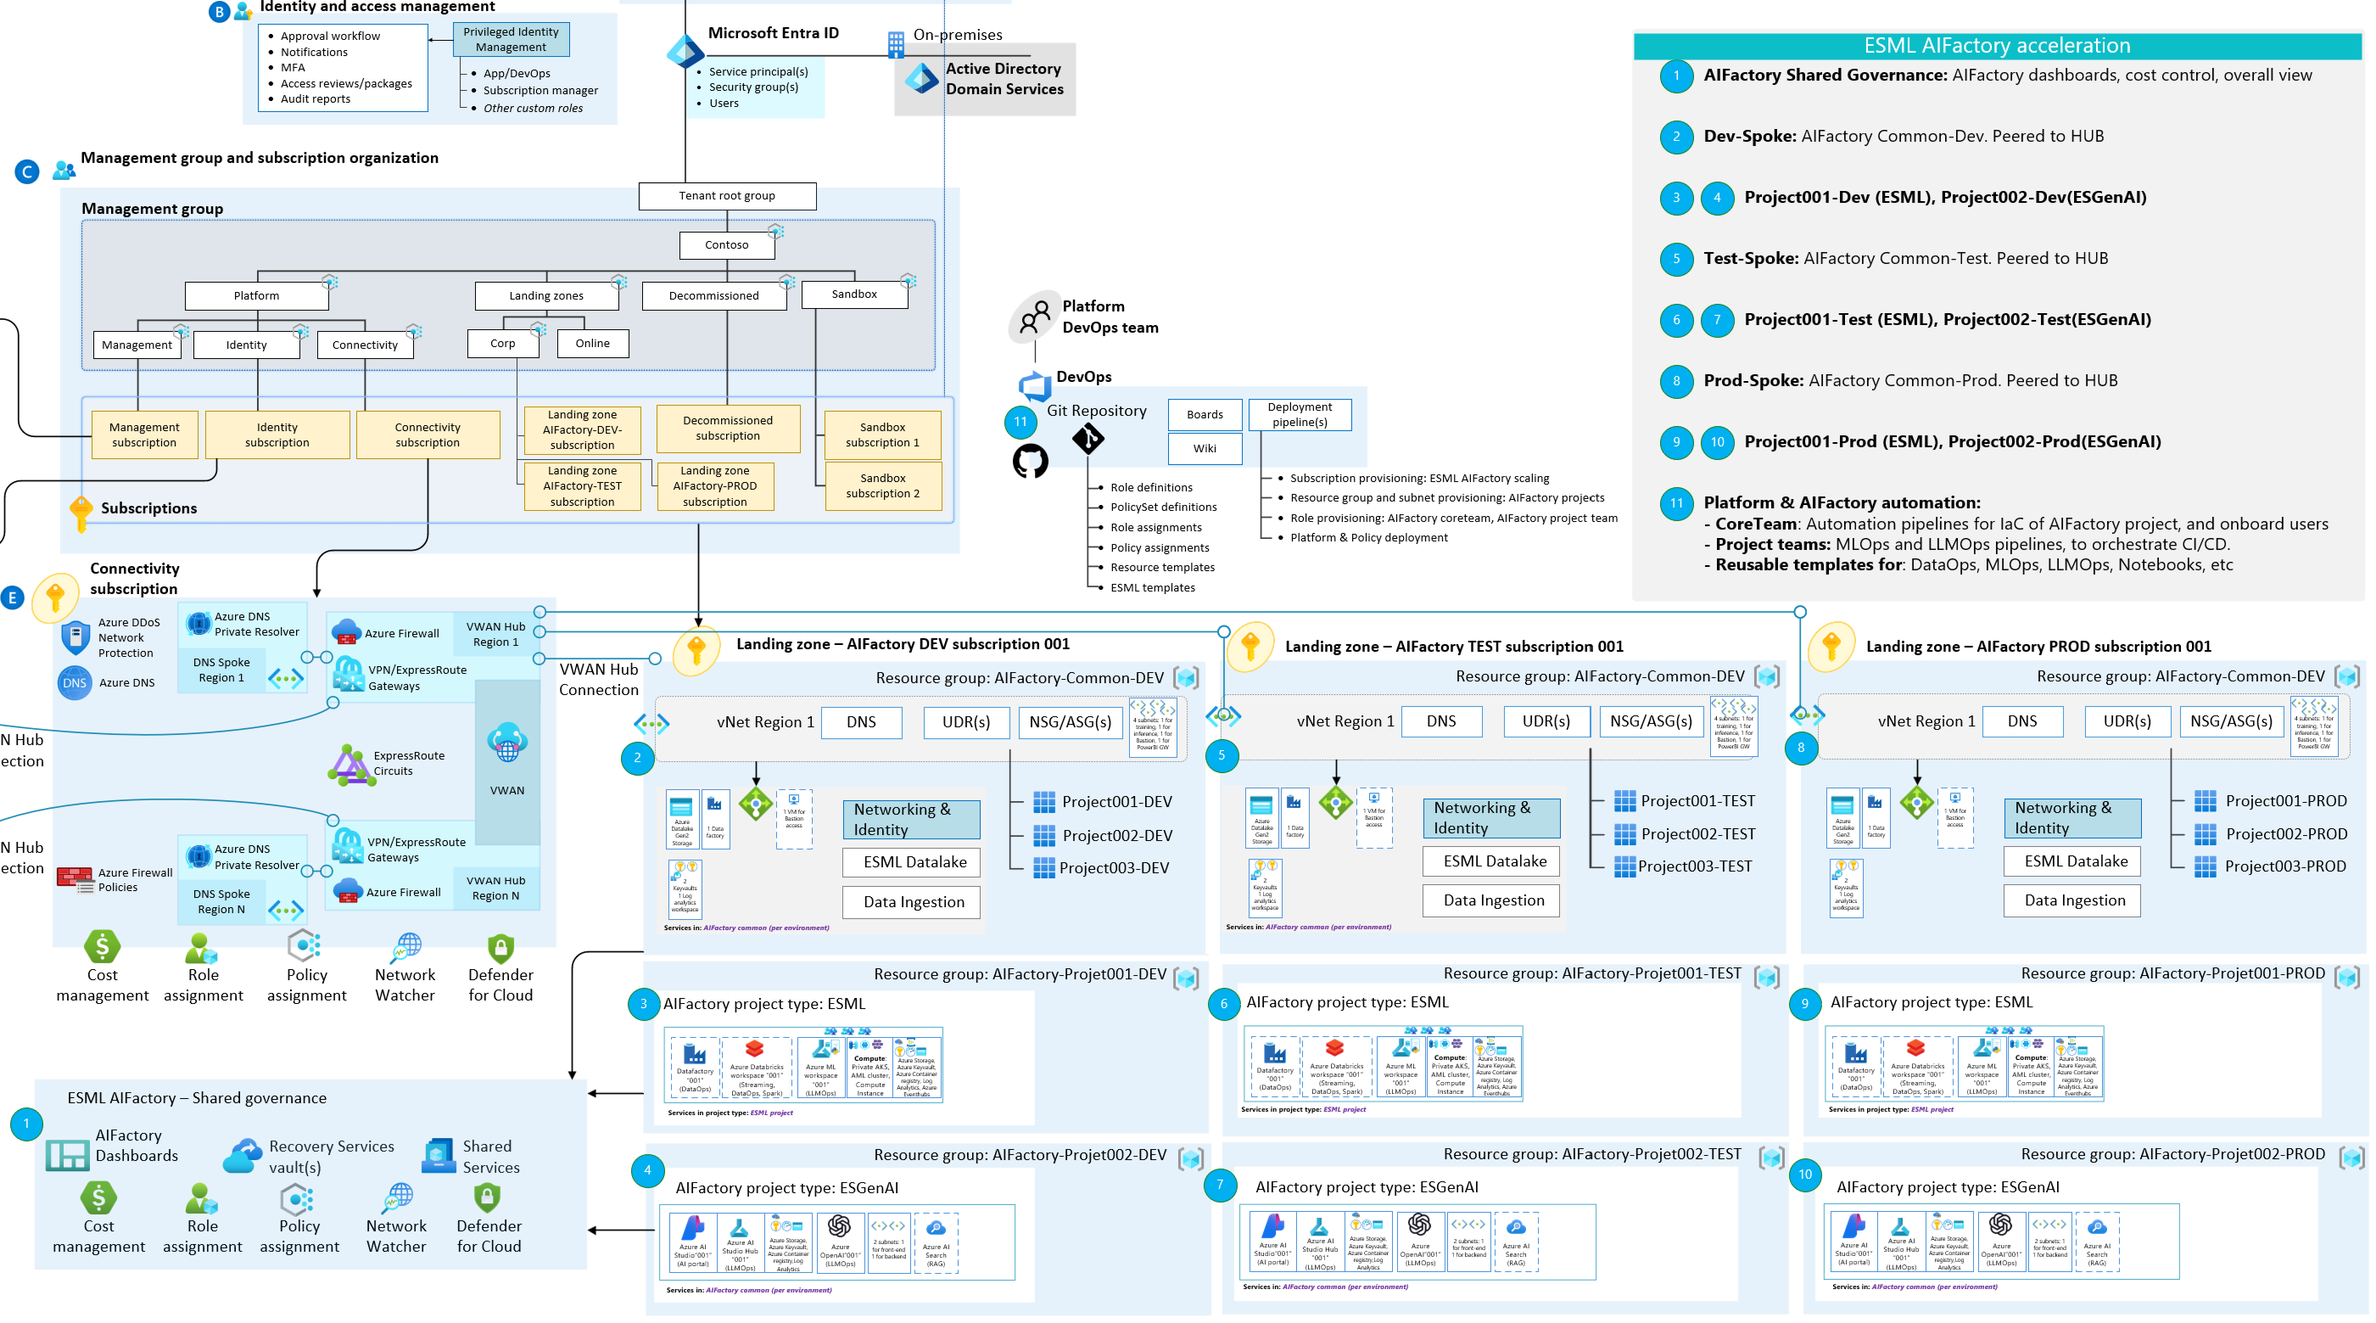
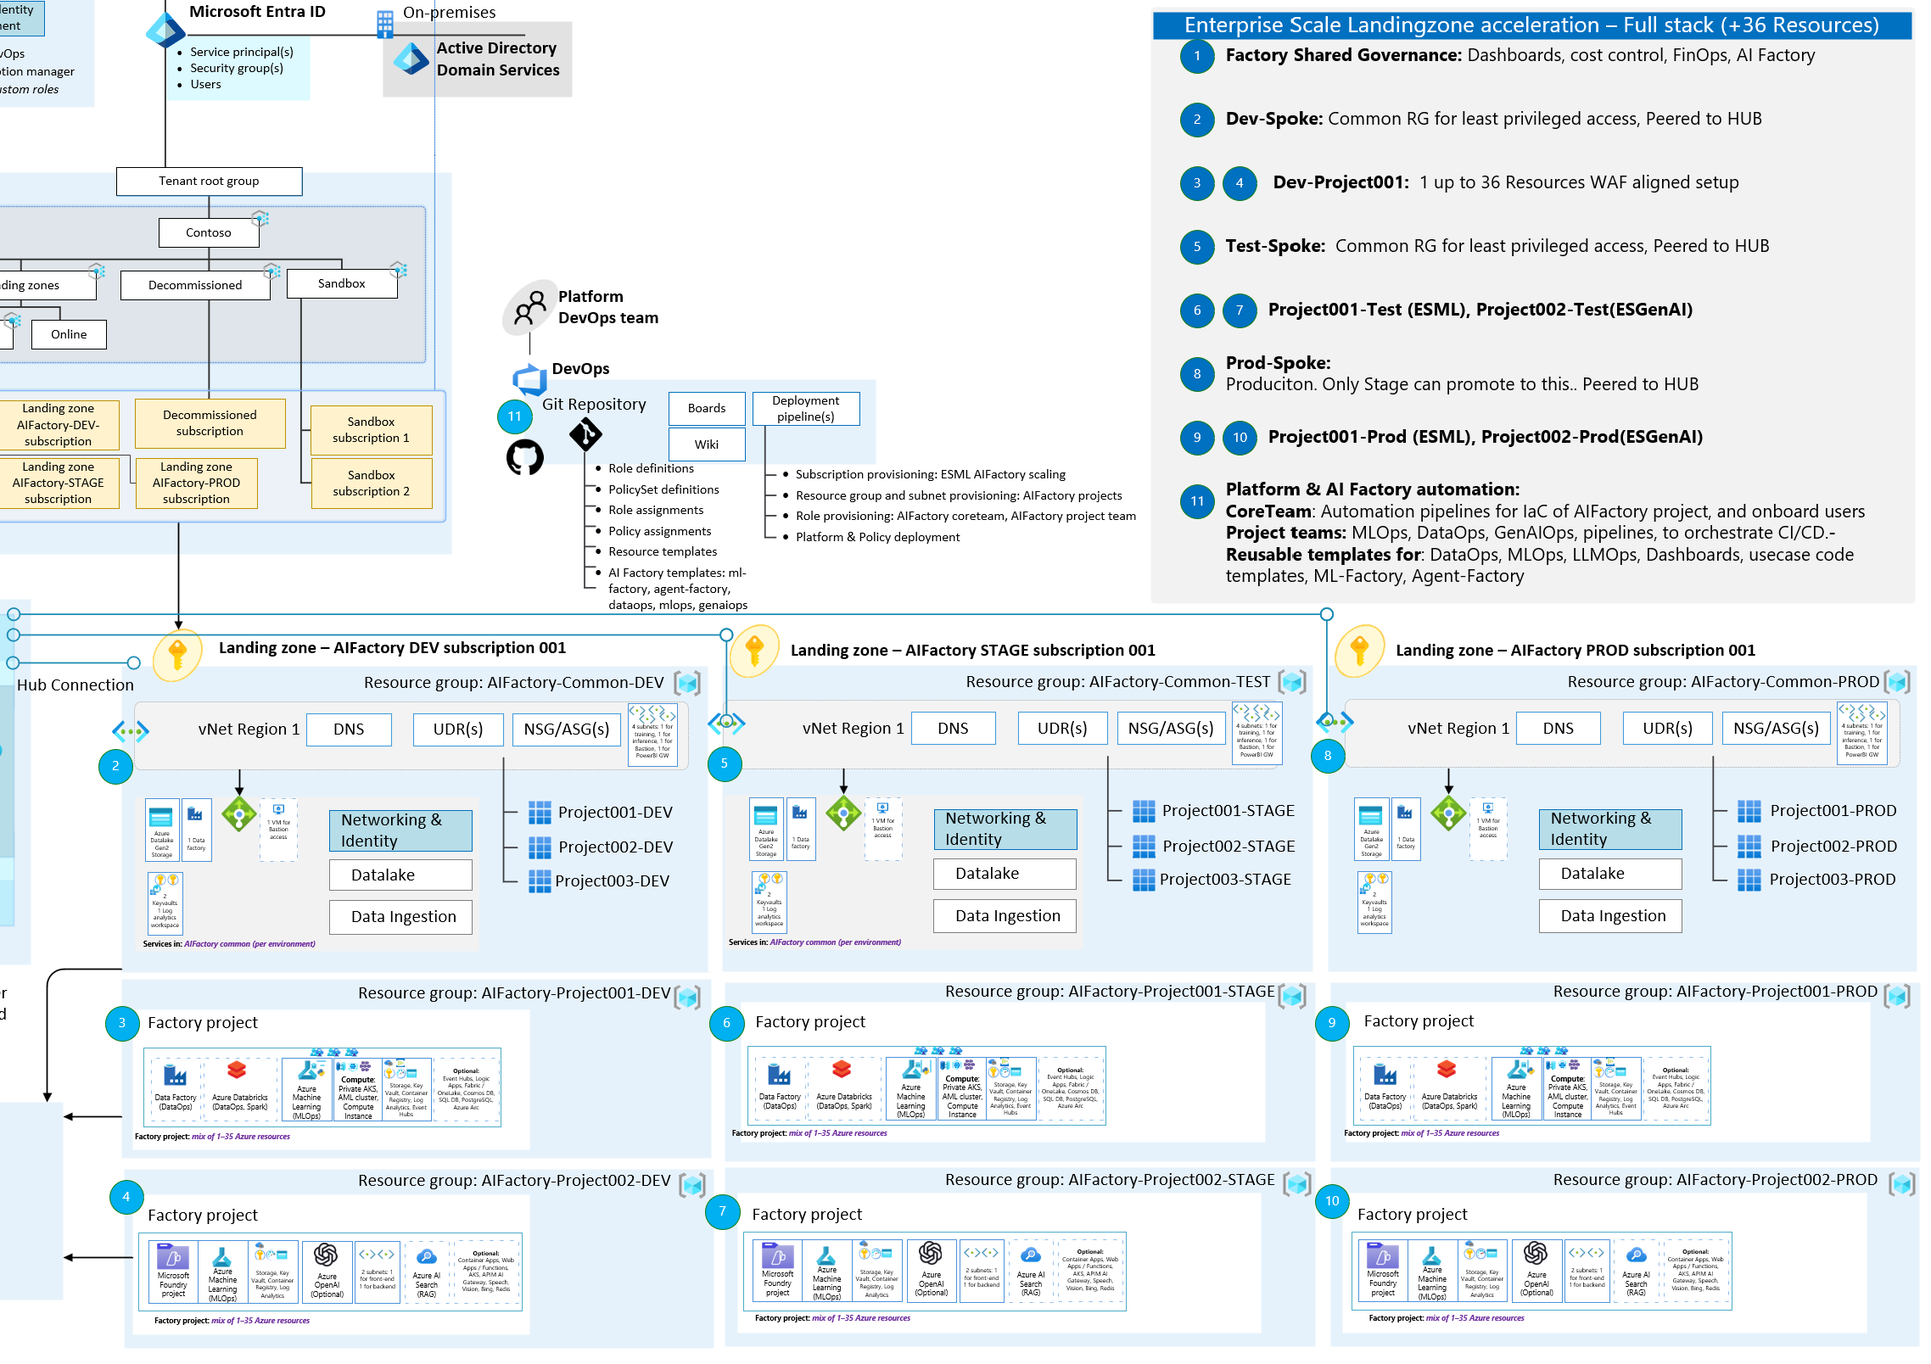
Update ESLZ diagrams, add portal deployment screenshots and Deployment Stacks decision record
- Refresh 14-eslz-full-1.png and 14-eslz-zoomed-in-1.png
- Add portal-deployment-1..4.png screenshots (documentation/v2/20-29/images)
- Add 10-deployment-stack-VS-aifactory-governance.md: why the AI Factory
  does not adopt Azure Deployment Stacks as its lifecycle engine

diff --git a/documentation/v2/10-19/10-deployment-stack-VS-aifactory-governance.md b/documentation/v2/10-19/10-deployment-stack-VS-aifactory-governance.md
@@ -1,0 +1,126 @@
+# Azure Deployment Stacks vs. AI Factory lifecycle governance
+
+*Status: decision record (informational). Evidence date: 2026-10-25. Sources: the AI Factory repository (`main` and `release/v1.25`) and Microsoft Learn's Deployment Stacks pages listed at the end.*
+
+## Introduction
+
+[Azure Deployment Stacks](https://learn.microsoft.com/azure/azure-resource-manager/bicep/deployment-stacks) (`Microsoft.Resources/deploymentStacks`) wrap an ARM/Bicep deployment in a resource that remembers which resources it manages. When you update or delete the stack, resources that are no longer in the template are either **detached** or **deleted** (`actionOnUnmanage`). **Deny settings** can block changes or deletes on managed resources.
+
+The AI Factory already governs the full lifecycle of its Dev, Stage and Prod environments. Its ADO and GitHub Actions pipelines and the v1.25 Factory lifecycle code (`factory_lifecycle.py`, `factory_deletion_pipeline.py`) handle:
+
+- creation and re-runs;
+- selective service removal;
+- whole-project or whole-factory deletion;
+- coordination of shared connectivity hubs.
+
+### Where stacks would live
+
+Stacks are a way of *running* a deployment (`az stack sub create` instead of `az deployment sub create`), not a change to the Bicep code. Adopting them would leave the shared stage templates unchanged. It would change the ADO/GHA pipeline YAML and the scripts that read deployments back. The "Deploy to Azure" portal button can't create a stack at all, because Microsoft's documentation states that creating stacks in the portal "isn't implemented". For the portal package, a stack could only be a documented CLI route (`az stack sub create --template-uri …`).
+
+Stacks don't replace the Dev/Stage/Prod concept. There would be one stack per environment and layer, for example `aif-<prefix>-common-dev`, `aif-<prefix>-project001-dev` and `aif-<prefix>-project001-prod`.
+
+This document compares the two feature by feature. It explains why the AI Factory does **not** adopt Deployment Stacks as its lifecycle engine. The short version: stacks delete whatever the template no longer declares, in no order the caller controls. The AI Factory has to delete Foundry, AI Search and networking **in a specific order, with waits and purges, behind a reviewed and frozen plan**, and it must **never** touch shared or protected resources.
+
+## Feature comparison
+
+Legend: ✅ supported · ⚠ partial or with caveats · ❌ not supported
+
+| # | Capability | AI Factory | Azure Deployment Stacks |
+|---|---|---|---|
+| 1 | **Ordered deletion** (needed for Foundry and AI Search) | ✅ Phased order: capability hosts → AI Search shared private links → other resources → networking → resource groups (`factory_deletion_pipeline.py`, `phase()` / `ordered_resources()`), with dependency checks between phases | ❌ Deletes unmanaged resources with no caller-defined order, phases or dependency rules |
+| 2 | **Waits between deletion steps** (Foundry agent subnet release) | ✅ Polls account capability hosts until gone; waits for subnet release after purge (pipeline step `06c2_Wait_For_Subnet_Release_After_Purge`; `delete-caphost-and-foundry-and-its-subnet.sh`) | ❌ No waits or custom steps |
+| 3 | **Ghost capability-host cleanup** | ✅ Lists actual capability hosts and projects through REST and removes leftovers after a project was deleted in the portal | ❌ Only resources the template explicitly declared are managed; implicitly created ones are out of scope |
+| 4 | **Soft-delete purge** (Foundry, Key Vault, others) | ✅ Purge steps (`18_Purge_Soft_Deleted`, `69-Purge-Soft-Deleted-Foundry-Before-Create`) so names can be reused | ❌ Deletes only; soft-deleted names keep blocking redeployment |
+| 5 | **Idempotent re-runs of existing environments** | ✅ Templates skip creation of resources that exist (`*Exists` flags, e.g. `kv1 … if(!keyvaultExists)`, `cosmosdb … if(!cosmosDBExists …)`) | ⚠ A skipped resource counts as *unmanaged*: with `deleteResources`/`deleteAll` it is **deleted** on the next run; with `detachAll` it simply drops out of the stack |
+| 6 | **Selective service removal** (a feature flag turned off) | ✅ `delete-services-if-disabled.sh` deletes only disabled services and keeps dependencies (for example, AI Search is kept while Foundry's capability host needs it) | ⚠ Removing a resource from the template deletes or detaches it, but without dependency checks between services |
+| 7 | **Protection of shared and reusable resources** | ✅ Never deletes resources tagged `aifactory.bootstrap`, `platform`, `protected` or `reusable`, protected types, or Foundry *hub* workspaces (`protected()` in `factory_deletion_pipeline.py`) | ⚠ `deleteAll` deletes everything the stack manages; only detach mode or careful template scoping prevents it |
+| 8 | **Shared connectivity hub coordination** (v1.25) | ✅ Blob leases in the hub resource group (`hub_lock_foundation.py`) coordinate several factories; deletion retains shared-hub links it cannot prove it owns | ❌ No cross-deployment locking or lease coordination |
+| 9 | **Reviewed, frozen deletion plan** | ✅ `AIFACTORY_LIFECYCLE_CONTRACT` freezes source, configuration, plan, scope, identity and expiry; execution needs a separate review | ❌ Stack update or delete acts immediately on the current template |
+| 10 | **Receipts and recovery of uncertain writes** | ✅ Durable claims and receipts; uncertain writes are reported, not repeated | ⚠ "Stack out of sync" error; recovery means redeploying the same template or bypassing the check |
+| 11 | **Orphaned role-assignment cleanup** | ✅ `cleanup-project-orphan-roles.py` removes assignments for deleted principals | ❌ Not handled |
+| 12 | **Capacity retries** (SKU and region fallback for AI Search, PostgreSQL, Container Apps) | ✅ `deploy-capacity-resource.py` retries the configured SKUs and fallback regions | ❌ One template run; no retry logic |
+| 13 | **Data-plane and Microsoft Graph steps** (Key Vault secrets, Entra team groups and personas) | ✅ Handled by pipeline and bootstrap steps | ❌ Stacks can't delete Key Vault secrets; the Microsoft Graph Bicep provider isn't supported |
+| 14 | **Name-based deployment lookups in scripts** | ✅ Pipelines name top-level deployments (`esml-p001-dev-…PrjDepl-66-ai-platform`, `…SubnetDeplProj`) and scripts read them back by name | ⚠ Nested deployments keep their names, but `--name` names the *stack*; scripts reading top-level deployments would need `az stack … show` |
+| 15 | **What-if preview** | ⚠ Used for some workflows and the portal button (`az deployment … what-if`) | ⚠ Not supported according to the known-issues page; a preview `az stack-whatif` command exists in the CLI |
+| 16 | **Persona RBAC model** | ✅ Specialist personas may deploy but are explicitly denied `Microsoft.Resources/deploymentStacks/write` (tested in `test_persona_policy.py`) | ⚠ Stack operations need their own roles (Deployment Stack Contributor or Owner) |
+| 17 | **Dev / Stage / Prod environments** | ✅ First-class in ADO/GHA (environments, approvals, per-environment variables) | ⚠ Neutral: you would need one stack per environment and layer; stacks have no environment concept |
+| 18 | **Deny-assignments (block deletes or writes by anyone)** | ⚠ Optional resource locks in one module (`aiFoundry2025AvmOff.bicep`); no factory-wide deny-assignments | ✅ `denyDelete` / `denyWriteAndDelete` with up to 5 excluded principals or groups |
+| 19 | **One-command teardown of everything deployed** | ⚠ Through the reviewed project and factory deletion flows (by design, not one command) | ✅ `az stack sub delete --action-on-unmanage deleteAll` |
+| 20 | **Built-in managed-resource inventory** | ⚠ Ownership records, the `register.json` catalog and the hosts inventory, owned by the AI Factory | ✅ Listed on the stack resource |
+| 21 | **Scale limits** | No product limit beyond Azure's | 800 stacks per scope; 2,000 deny-assignments per scope |
+| 22 | **Pipeline repair steps on managed resources** (Network Contributor grant, capability-host deletion, purges, subnet delegation) | ✅ Run as ordinary pipeline steps under the deployment identity | ⚠ Blocked by deny settings unless the deployment identity is excluded; at most 5 excluded principals or groups |
+| 23 | **Resources Azure creates on its own** (AKS node resource group, Databricks managed resource group, Foundry agent infrastructure) | ⚠ Handled where needed by dedicated steps (for example capability-host and agent-subnet cleanup) | ❌ Not managed by the stack: no deny-assignments or cleanup |
+
+## What the differences mean in practice
+
+### 1. Foundry and AI Search need a deletion *procedure*, not just a list of resources
+Microsoft's recommended teardown for a Foundry account with an agent capability host has several steps:
+
+1. Delete the project capability hosts and wait.
+2. Delete the account capability host (long-running; poll until gone).
+3. Delete the projects, then the private endpoints.
+4. Delete the account, then purge it.
+5. Only after that, release the delegated agent subnet.
+
+Skipping or reordering these steps leaves the subnet "in use" and blocks redeployment. AI Search's shared private links likewise have to go before the resources they point to. The AI Factory encodes this order (rows 1–4). A stack deletes whatever it no longer manages, without that order, waits or purges.
+
+### 2. Automatic deletion conflicts with idempotent re-runs
+AI Factory templates leave out resources that already exist (row 5), so re-running a pipeline never recreates or rewrites Key Vaults, storage accounts or Cosmos DB accounts. Under a stack with a delete mode, those skipped resources look unmanaged and **would be deleted on the second run**. Making stacks safe would mean rewriting every stage template to always declare every resource. That is a large change with a real risk of data loss if anything is missed.
+
+### 3. Shared resources need judgement that a stack can't express
+A factory can use a shared connectivity hub, common resources and bootstrap identities that other factories also depend on. The AI Factory proves ownership before deleting, keeps anything tagged or typed as protected, and coordinates shared hubs through leases (rows 7–8). A stack knows only "in my template" or "not in my template".
+
+### 4. Governance: reviewed, frozen and recoverable
+The v1.25 lifecycle freezes the deletion plan, requires a separate review, records receipts, and refuses to repeat uncertain writes (rows 9–10). A stack delete is immediate and would bypass that review. This is also why the persona policy denies stack writes to specialist roles (row 16).
+
+### 5. Scripts that find deployments by name
+The pipelines name their top-level deployments themselves, and several scripts read them back by name or name pattern:
+
+| Script or step | Lookup | Effect of stacks |
+|---|---|---|
+| `scripts/ado/71_…`, `72_…`, `73_…DeleteIt.sh` | `az deployment sub list --query "[?starts_with(name, 'esml-p<nnn>-<env>-<loc>') && contains(name, '66-ai-platform')]"` | Breaks for the top-level deployment, because `--name` would name the stack |
+| same scripts | Error search for the nested module `06-aiHubModule` | Keeps working: nested deployments keep the names the templates give them |
+| `scripts/genDynamicNetworkParamFile.ps1` (line 499) | `Get-AzResourceGroupDeployment -Name "<prefix>SubnetDeplProj"` (reads `31-network` outputs) | Breaks |
+| Pipeline step `67b-approve-adf-managed-private-endpoints` | `az deployment sub show --name $deplName` (reads outputs) | Breaks |
+| `scripts/deploy-capacity-resource.py` | Names its deployments and reads the failed deployment's error by name | Breaks |
+
+Each of these would have to switch to `az stack … show` and follow the stack's reference to its deployment. Microsoft's documentation doesn't state the name of the deployment object a stack creates, so this needs a live test first.
+
+### 6. Pipeline repair steps and resources outside the stack
+Several pipeline steps change managed resources after deployment: they grant the Foundry identity Network Contributor, delete capability hosts, purge soft-deleted resources and fix subnet delegation. Deny settings would block these unless the deployment identity is excluded, and a stack allows at most five excluded principals or groups. Resources Azure creates on its own are never managed by a stack, so the dedicated cleanup steps would still be needed (rows 22–23).
+
+### 7. Where stacks are genuinely stronger
+Stacks offer platform-enforced deny-assignments, a one-command teardown and a built-in inventory (rows 18–20). These are real benefits, but they don't need stacks to own the lifecycle. Delete protection for Prod can be added with resource locks or a deny-only stack in **detach mode**, which never deletes anything.
+
+## Decision
+
+Deployment Stacks are **not** adopted as the AI Factory's lifecycle engine. They lack ordered and phased deletion, waits, purges, dependency-aware selective removal, protection of shared resources, cross-factory coordination, and reviewed, frozen plans. In delete mode they also conflict with the idempotent "skip if it exists" re-run pattern and would delete existing resources.
+
+### Effort and benefit of the options considered
+
+| Option | Effort | Benefit | Risk | Verdict |
+|---|---|---|---|---|
+| **A. Portal factories only:** a documented `az stack sub create --action-on-unmanage detachAll --deny-settings-mode denyDelete` route next to the button, plus an explicit `deleteAll` teardown by the owner | ~0.5–1 day | Inventory, delete protection and easy teardown of throwaway Dev factories | Low: portal factories are greenfield and declare every resource, and nothing is deleted unless the owner asks | Possible; needs its own decision |
+| **B. ADO/GHA pipelines in detach mode with deny settings:** swap the deploy calls per environment, adapt the ~8 name lookups (section 5), exclude the deployment identity, record the decision | ~1–2 weeks | Inventory and Prod delete protection | Medium: name lookups, deny exclusions, persona model | Deferred; would need an architecture decision |
+| **C. Full lifecycle in delete mode** | ~4–8 weeks: make every stage template always declare its resources (removing the `*Exists` pattern), and reconcile with reviewed deletion, purges and ordering | Automatic cleanup | High: data loss if any resource is missed | Rejected |
+
+Options A and B still leave deletion to the AI Factory's own flows. They use stacks only for what stacks do well (inventory and delete protection), never for deleting.
+
+## Sources
+
+**AI Factory repository**
+- `bootstrap/lib/factory_deletion_pipeline.py`: phased and ordered deletion, protected resources, shared-hub link retention.
+- `bootstrap/lib/factory_lifecycle.py`, `factory_lifecycle_contract.txt`: frozen, reviewed lifecycle contract.
+- `bootstrap/lib/hub_lock_foundation.py`: Blob lease coordination of shared hubs.
+- `environment_setup/aifactory/bicep/scripts/delete-caphost-and-foundry-and-its-subnet.sh`, `delete-services-if-disabled.sh`, `delete-subnets-for-projects.sh`, `cleanup-project-orphan-roles.py`, `deploy-capacity-resource.py`.
+- `environment_setup/aifactory/bicep/scripts/ado/71_If_Error_AIFoundryHubAndProject_DeleteIt.sh`, `72_…`, `73_…`, `genDynamicNetworkParamFile.ps1`: name-based deployment lookups.
+- `environment_setup/aifactory/bicep/copy_to_local_settings/github-actions/infra-project-phase.yml`: purge, wait and capability-host steps.
+- `environment_setup/aifactory/bicep/esml-genai-1/02-core-infrastructure.bicep`, `04-databases.bicep`: `*Exists` conditions.
+- `environment_setup/unit-tests/test-bicep/unit/test_persona_policy.py`: stack writes denied to specialist personas.
+
+**Microsoft Learn** (retrieved 2026-10-25)
+- [Create and deploy Azure deployment stacks in Bicep](https://learn.microsoft.com/azure/azure-resource-manager/bicep/deployment-stacks)
+- [Known issues for deployment stacks](https://learn.microsoft.com/azure/azure-resource-manager/bicep/deployment-stacks-known-issues)
+- [Azure CLI `az stack-whatif`](https://learn.microsoft.com/cli/azure/stack-whatif/group)
+
+*Limitations: comparison based on documentation and source code. No Deployment Stack was deployed against the AI Factory templates. The exact name of the deployment object a stack creates was not confirmed in the documentation.*
